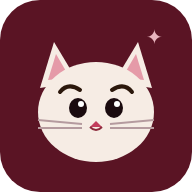
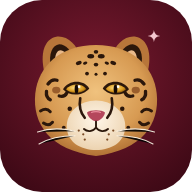
Новий значок: леопард на бургунді
Claude-Session: https://claude.ai/code/session_016TjTmYn3De8XZcRUYaTY1P

diff --git a/index.html b/index.html
@@ -9,11 +9,11 @@
 <meta name="apple-mobile-web-app-title" content="Bitch Catli">
 <title>Bitch Catli</title>
 <link rel="manifest" href="manifest.json">
-<link rel="icon" href="icon.svg" type="image/svg+xml">
+<link rel="icon" href="icon.svg?v=5" type="image/svg+xml">
 <link rel="apple-touch-icon" href="icon-192.png">
 <link rel="preconnect" href="https://fonts.googleapis.com">
 <link href="https://fonts.googleapis.com/css2?family=Cormorant+Garamond:ital,wght@0,400;0,500;0,600;1,400;1,500&family=Jost:wght@300;400;500;600&display=swap" rel="stylesheet">
-<link rel="stylesheet" href="styles.css?v=4">
+<link rel="stylesheet" href="styles.css?v=5">
 </head>
 <body data-view="today">
 <header class="top">
@@ -30,8 +30,8 @@
 </header>
 <main id="view"></main>
 <button class="fab hidden" id="fab" title="Швидка витрата" onclick="Bd.quick()">+</button>
-<script src="quotes.js?v=4"></script>
-<script src="app.js?v=4"></script>
-<script type="module" src="sync.js?v=4"></script>
+<script src="quotes.js?v=5"></script>
+<script src="app.js?v=5"></script>
+<script type="module" src="sync.js?v=5"></script>
 </body>
 </html>

diff --git a/sw.js b/sw.js
@@ -1,5 +1,5 @@
 // Спочатку мережа (щоб оновлення приходили одразу), без мережі — кеш.
-const CACHE = 'bitch-catli-v4';
+const CACHE = 'bitch-catli-v5';
 const ASSETS = ['./', './index.html', './styles.css', './app.js', './quotes.js', './sync.js', './leopard.svg', './manifest.json', './icon-192.png', './icon-512.png'];
 self.addEventListener('install', e => { e.waitUntil(caches.open(CACHE).then(c => c.addAll(ASSETS)).catch(() => {})); self.skipWaiting(); });
 self.addEventListener('activate', e => { e.waitUntil(caches.keys().then(k => Promise.all(k.filter(x => x !== CACHE).map(x => caches.delete(x))))); self.clients.claim(); });

diff --git a/app.js b/app.js
@@ -53,7 +53,7 @@ const accIcon = (k, s = 30) => k === 'cash'
 
 // ── стан ──
 const STORE = 'bc_state_v2';
-const APP_VERSION = 4;
+const APP_VERSION = 5;
 function defaultBudget() {
   const env = n => ({ id: uid(), name: n, amount: 0, carry: 0 });
   const envs = ['Оренда', 'Комуналка', "Інтернет і зв'язок", 'Їжа', 'Кіт', 'Проїзд', 'Гігієна і дім', 'Наступний місяць'].map(env);
